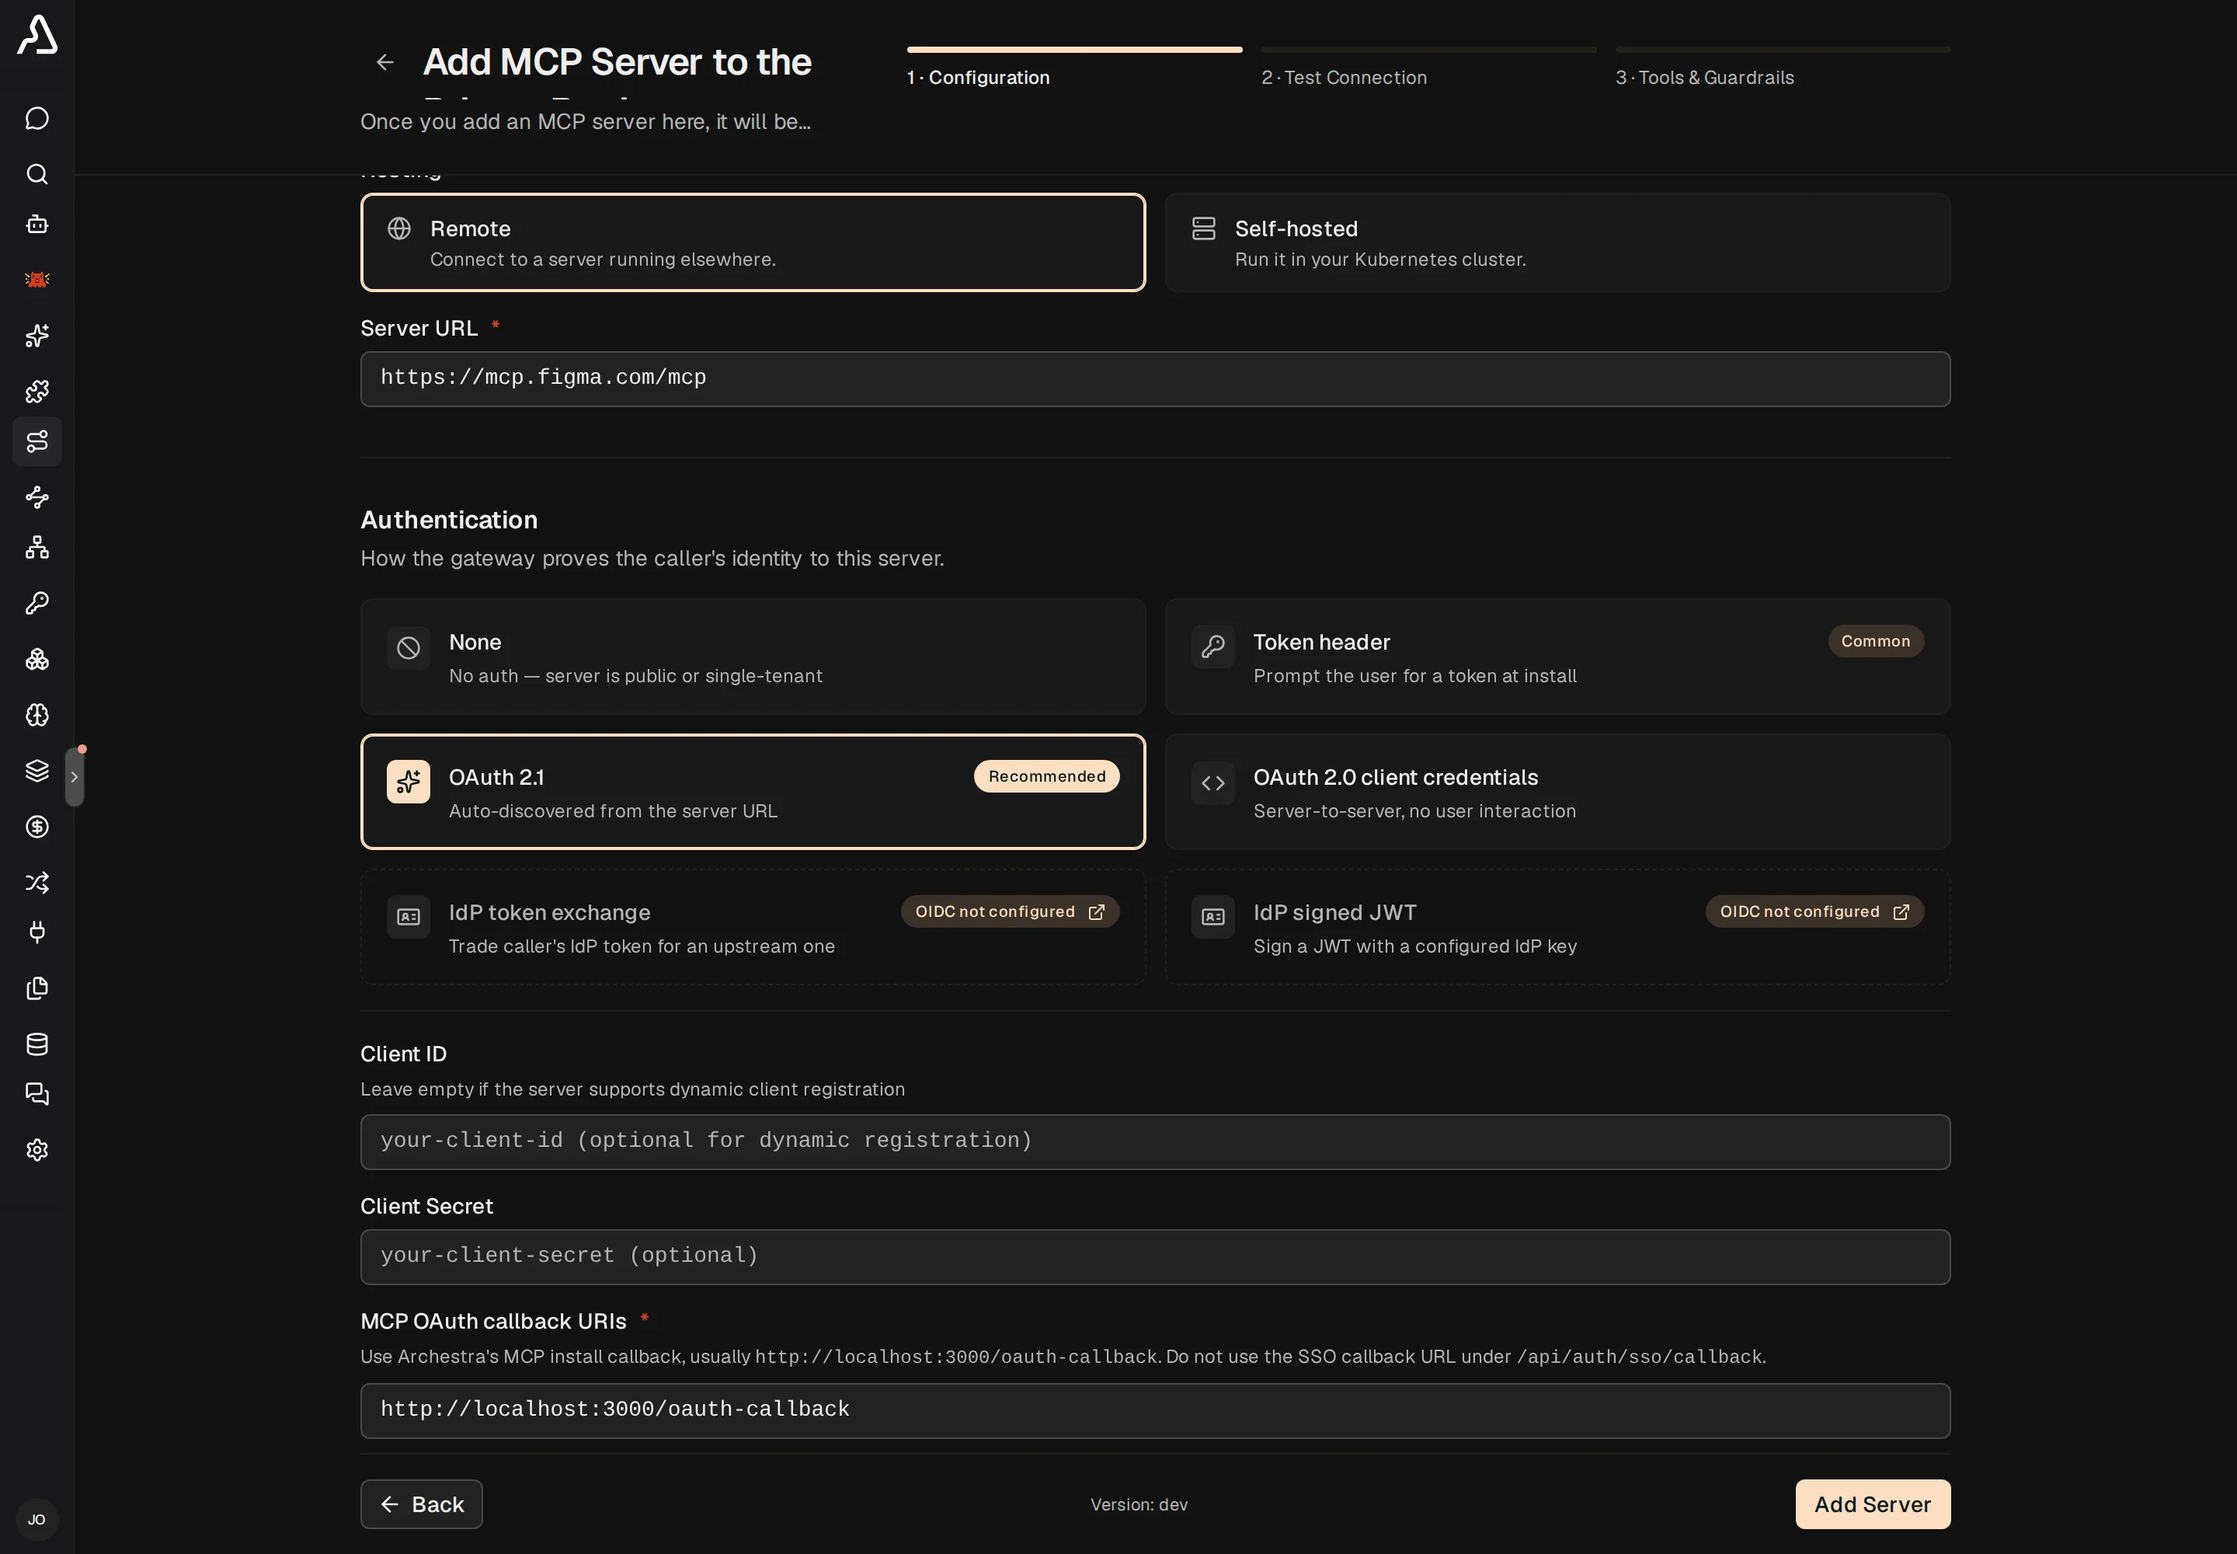
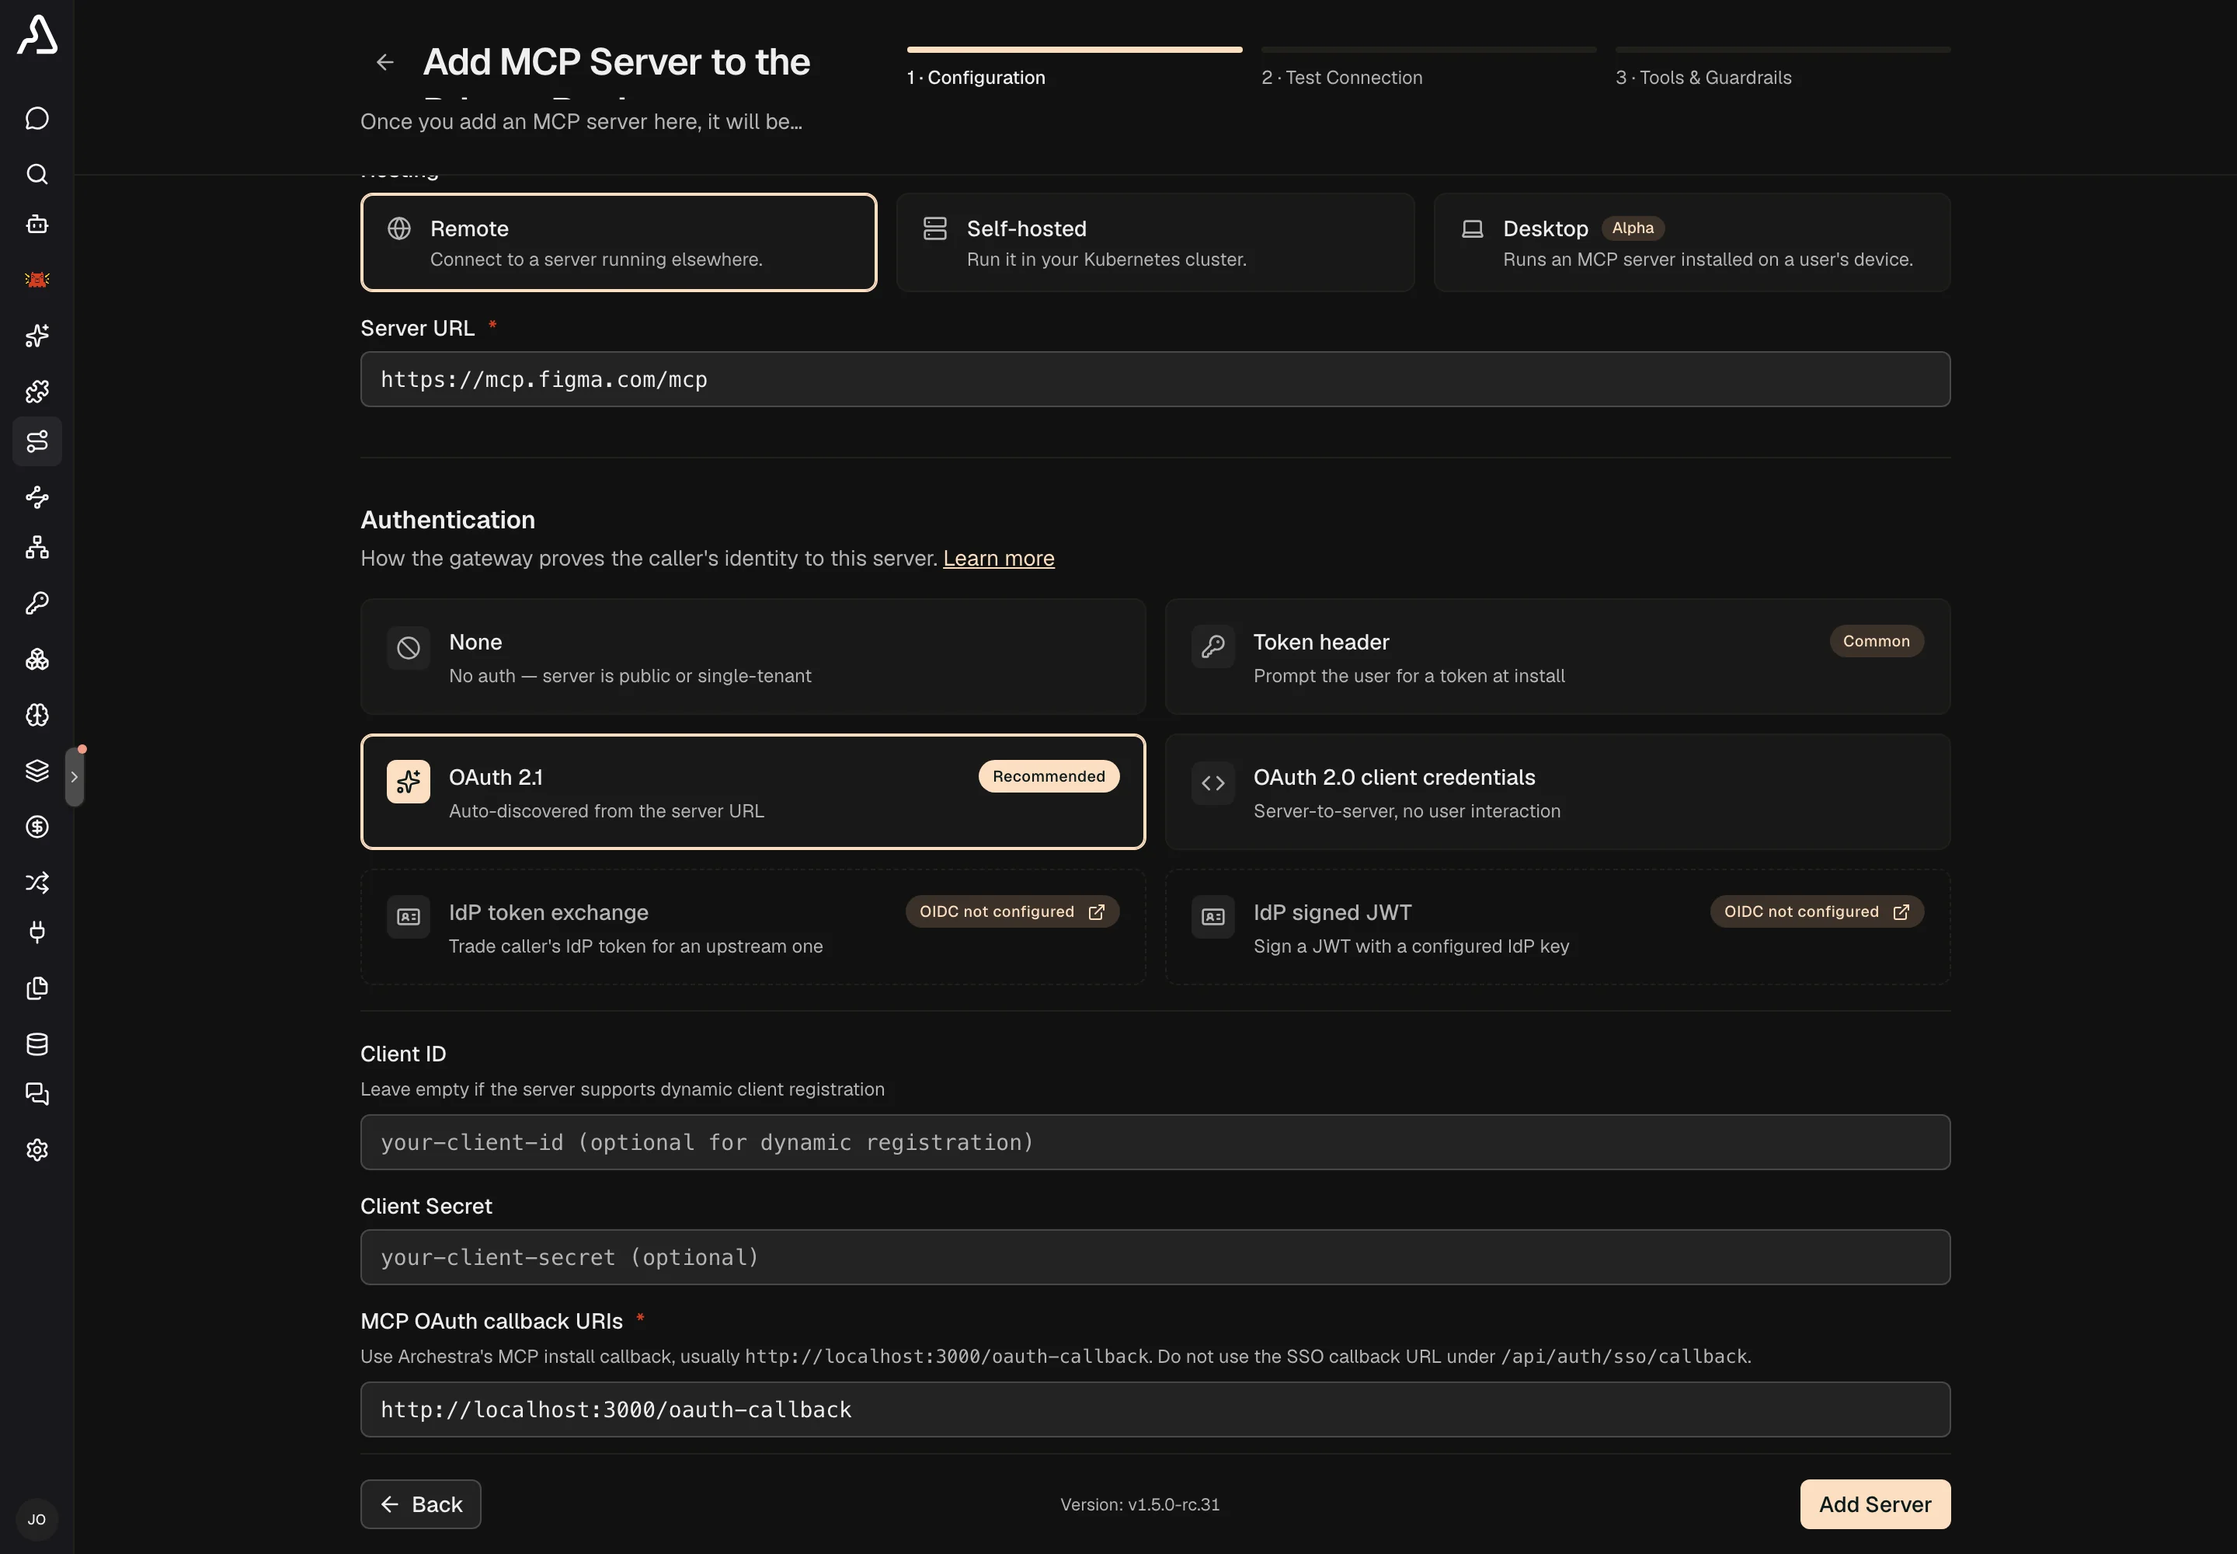
docs(mcp): add Desktop MCP Servers and Archestra CLI pages

diff --git a/platform/tools/docs-screenshots/src/db-seed.ts b/platform/tools/docs-screenshots/src/db-seed.ts
@@ -3,6 +3,7 @@ import {
   AGENT_PLACEMENT,
   CHANNEL_BINDINGS,
   COLLEAGUES,
+  DESKTOP_DEVICE,
   KNOWLEDGE_BASE_AGENTS,
   KNOWLEDGE_BASES,
   KNOWLEDGE_CONNECTORS,
@@ -56,6 +57,7 @@ ON CONFLICT DO NOTHING;`);
   seedKnowledge(state);
   seedYells(state);
   seedLogSession(state);
+  seedDesktopDevice(state);
 }
 
 /** Rebuild only reserved fixture records so session-head triggers and ownership stay current. */
@@ -168,6 +170,17 @@ INSERT INTO member (id, organization_id, user_id, role, created_at) VALUES (${sq
 }
 
 /** Agent reports on Guardrails → Yells, filed by the colleagues. Agents file them through a tool call; no API creates one. */
+/**
+ * The persona's device, linked and online. A device is online while its MCP
+ * bridge polls; no bridge runs here, so the last poll is set far ahead and the
+ * row stays online for every capture.
+ */
+function seedDesktopDevice(state: SeedState): void {
+  runSql(`INSERT INTO desktop_devices (id, organization_id, user_id, name, platform, key_hash, last_polled_at, client_version, created_at)
+VALUES (${sql(DESKTOP_DEVICE.id)}, ${sql(state.organization.id)}, ${sql(state.users.persona)}, ${sql(DESKTOP_DEVICE.name)}, ${sql(DESKTOP_DEVICE.platform)}, encode(sha256(${sql(`docs-device-${DESKTOP_DEVICE.id}`)}::bytea), 'hex'), now() + interval '10 years', ${sql(DESKTOP_DEVICE.version)}, ${FIXTURE_TIME_SQL} - make_interval(days => ${DESKTOP_DEVICE.daysAgo}))
+ON CONFLICT (user_id) DO UPDATE SET name = EXCLUDED.name, platform = EXCLUDED.platform, last_polled_at = EXCLUDED.last_polled_at, client_version = EXCLUDED.client_version, created_at = EXCLUDED.created_at;`);
+}
+
 function seedYells(state: SeedState): void {
   const organizationId = state.organization.id;
   runSql(

diff --git a/platform/tools/docs-screenshots/src/manifest.ts b/platform/tools/docs-screenshots/src/manifest.ts
@@ -66,6 +66,29 @@ export const SHOTS: Shot[] = [
     },
   },
   {
+    asset: "automated_screenshots/mcp-servers-desktop_device",
+    route: () => "/account/devices",
+    viewport: { width: 1440, height: 520 },
+  },
+  {
+    asset: "automated_screenshots/mcp-servers-desktop_add",
+    route: () => "/mcp/registry/new",
+    viewport: { width: 1440, height: 1000 },
+    prepare: async (page) => {
+      await page.getByText("Start from scratch").click();
+      await page.getByPlaceholder("e.g., GitHub MCP Server").fill("MATLAB");
+      await page
+        .getByPlaceholder("Describe what this MCP server does...")
+        .fill("Runs MATLAB code and opens figures on your device");
+      await page.getByText("Desktop", { exact: true }).click();
+      await page
+        .getByPlaceholder("/Users/$USER/bins/mcp")
+        .fill(
+          "$HOME/matlab-mcp/matlab-mcp-server --initial-working-folder=$HOME/matlab-mcp/project",
+        );
+    },
+  },
+  {
     asset: "automated_screenshots/mcp-servers-installing_install",
     route: () => "/mcp/registry",
     prepare: async (page) => {

diff --git a/platform/tools/docs-screenshots/src/dataset.ts b/platform/tools/docs-screenshots/src/dataset.ts
@@ -148,6 +148,18 @@ expect allow
 ] as const;
 
 /** Yells on Guardrails → Yells: agents that could not finish a task because of the policy. */
+/**
+ * The persona's linked device. Only the MCP bridge can link one, when it runs
+ * on a real device, so the row is seeded as SQL.
+ */
+export const DESKTOP_DEVICE = {
+  id: "de51ce00-0000-4000-8000-000000000001",
+  name: "Jordans-MacBook-Pro",
+  platform: "macos",
+  version: "0.1.2",
+  daysAgo: 2,
+};
+
 export const YELLS = [
   {
     id: "5e11a0e1-0000-4000-8000-000000000001",

diff --git a/docs/pages/mcp/servers/desktop.md b/docs/pages/mcp/servers/desktop.md
@@ -1,0 +1,84 @@
+---
+title: Desktop MCP Servers
+description: Let Archestra use MCP servers running on your device, through the MCP bridge
+order: 5
+alpha: true
+lastUpdated: 2026-11-13
+---
+
+<!-- Renaming/deleting this file? Add a redirect in docs/redirects.json. -->
+
+Let Archestra use MCP servers running on your device. A desktop MCP server runs on each person's device, and agents reach it through the [MCP bridge](/docs/reference/archestra-cli).
+
+## Link Your Device
+
+A desktop MCP server runs on a device that is linked to your account. Link your device first, in Personal Settings.
+
+1. Go to **Personal Settings → Device**, and click **Set up the MCP bridge**.
+2. Copy the command, and paste it in a terminal on your device. On Windows, click **Use the Windows command** and paste it in PowerShell.
+3. Back in Archestra, make sure your terminal shows the same code, and click **Approve**.
+
+The **Device** tab then shows your device as **Online**.
+
+![The Device tab of Personal Settings with a linked device that is online](/docs/automated_screenshots/mcp-servers-desktop_device.webp)
+
+- The command installs the MCP bridge, the program that starts MCP servers on your device. It runs in the background, and starts again each time you log in.
+- To stop, update, or remove the MCP bridge, see the [Archestra CLI](/docs/reference/archestra-cli).
+- You have one device. Linking another one replaces it.
+
+## Add a Desktop MCP Server
+
+The command you enter here is the command that runs on your device. You need [`mcpRegistry:create`](/docs/reference/permissions#mcpRegistry:create).
+
+1. Go to **MCP Registry**, click **Add MCP Server**, then **Start from scratch**.
+2. Enter a **Name**, and under **Hosting** pick **Desktop**.
+3. Under **Command**, enter the command that starts the MCP server.
+4. Click **Add Server**.
+
+![The Add MCP Server form with Desktop hosting and a command](/docs/automated_screenshots/mcp-servers-desktop_add.webp)
+
+The program that the command starts must already be installed on the device. Archestra does not install it.
+
+- The same command runs on each person's device. Write `$USER` and `$HOME` for the user name and the home folder of that device.
+- No shell runs the command, so `~` and pipes do not work.
+
+## Connect the Server
+
+Connecting starts the MCP server on your linked device. After **Add Server**, you are on **Test Connection**.
+
+1. Click **Connect**.
+2. To add your own arguments to the command, enter them under **Arguments (one per line)**. Then click **Connect**.
+3. When the dialog says that the server is connected, click **Open chat**.
+
+## Example: MATLAB
+
+Ask an agent for a plot, and MATLAB draws it on your device. This example uses the [MATLAB MCP Server](https://github.com/matlab/matlab-mcp-server) from MathWorks.
+
+1. Add a desktop MCP server named `MATLAB` with this command. Change the paths to where the MATLAB MCP Server is already installed on your device:
+
+   ```text
+   $HOME/matlab-mcp/matlab-mcp-server --initial-working-folder=$HOME/matlab-mcp/project
+   ```
+
+2. Click **Connect**, then **Open chat**.
+3. Send this message:
+
+   ```text
+   In MATLAB, plot sin(x) from 0 to 2π and tell me its maximum value.
+   ```
+
+MATLAB opens the figure on your device, and the agent answers with what MATLAB found.
+
+![A chat that asks MATLAB for a sine plot, next to the MATLAB figure it produced](/docs/desktop-mcp-matlab.webp)
+
+## Fix a Server That Does Not Connect
+
+Find what you see in **MCP Registry** or in the dialog, then fix it on your device.
+
+| You see | Do this |
+| --- | --- |
+| **Device not linked** | Click it, and [link your device](#link-your-device). |
+| **Waiting for your device** | Click it to open **Personal Settings → Device**. If the device is **Offline**, wake it, or run `archestra bridge start` on it. |
+| **The program … was not found on this device.** | Install the program that the command starts, or put it on your `PATH`. The MCP bridge picks it up automatically. |
+
+On any other error, run `archestra bridge status` to find the log file, and read the server's errors there.

diff --git a/docs/pages/reference/archestra-cli.md b/docs/pages/reference/archestra-cli.md
@@ -1,0 +1,67 @@
+---
+title: Archestra CLI
+description: The archestra program on your device, with the commands that start, stop, update, and remove the MCP bridge
+order: 6
+alpha: true
+lastUpdated: 2026-11-13
+---
+
+<!-- Renaming/deleting this file? Add a redirect in docs/redirects.json. -->
+
+`archestra` is the program that links your device to Archestra. It runs the MCP bridge, which starts [desktop MCP servers](/docs/mcp/servers/desktop) on your device for your agents. The setup gives you a command for macOS and Linux, and one for Windows.
+
+## Install
+
+You do not download it by hand: Archestra gives you a command made for your account. See [Link Your Device](/docs/mcp/servers/desktop#link-your-device).
+
+The first start on a device does three things:
+
+- It links the device to your account, after you approve it in Archestra.
+- It puts the `archestra` command on your `PATH`. Open a new terminal to use it.
+- It turns auto-start on, so the MCP bridge starts each time you log in.
+
+## Commands
+
+Every command acts on your own device. Add `--help` to any of them for details.
+
+| Command | What it does |
+| --- | --- |
+| `archestra bridge start` | Starts the MCP bridge in the background. |
+| `archestra bridge stop` | Stops the MCP bridge. With auto-start on, it starts again at the next login. |
+| `archestra bridge status` | Shows if the MCP bridge runs, the state of each MCP server, the version, and where the log file is. |
+| `archestra bridge enable-auto-start` | Starts the MCP bridge at each login. It does not start it now. |
+| `archestra bridge disable-auto-start` | Stops starting the MCP bridge at each login. It does not stop it now. |
+| `archestra update` | Gets the version that your Archestra offers, and starts the MCP bridge again with it. |
+| `archestra uninstall` | Removes the program and the MCP bridge from your device. |
+
+`archestra bridge start` takes these options:
+
+| Option | What it does |
+| --- | --- |
+| `--url <url>` | The address of your Archestra. Needed for the first start only. |
+| `--config <path>` | Another config file than `~/.archestra/mcp-bridge/config.yaml`. |
+| `--foreground` | Runs the MCP bridge in this terminal. Stop it with Ctrl-C. |
+| `--no-open` | Prints the approval link, and does not open the browser. |
+
+## Update
+
+The program follows the Archestra it is linked to. When your Archestra offers another version, **Personal Settings → Device** and `archestra bridge status` say so.
+
+- **macOS and Linux:** run `archestra update`.
+- **Windows:** the MCP bridge updates by itself when no tool call is running. To update at once, run `archestra update`.
+
+## Uninstall
+
+`archestra uninstall` stops the MCP bridge, unlinks the device from your account, deletes the program and its files, and takes `archestra` off your `PATH`. Your MCP servers and other programs stay.
+
+To unlink a device you no longer have, go to **Personal Settings → Device**, and click **Unlink device** next to it.
+
+## Files
+
+Everything is in `~/.archestra`. On Windows, `~` is `%USERPROFILE%`.
+
+| File | What it holds |
+| --- | --- |
+| `~/.archestra/bin/archestra` | The program. |
+| `~/.archestra/mcp-bridge/config.yaml` | The key of your device and the servers you connected. Archestra rewrites it, so do not edit it. |
+| `~/.archestra/mcp-bridge/mcp-bridge.log` | The log of the MCP bridge, with the errors your MCP servers print. |

diff --git a/docs/pages/mcp/servers/index.md b/docs/pages/mcp/servers/index.md
@@ -2,7 +2,7 @@
 title: MCP Servers
 description: Add MCP servers to your organization's registry, install them, and give their tools to agents and gateways
 order: 1
-lastUpdated: 2026-10-05
+lastUpdated: 2026-11-13
 ---
 
 <!-- Renaming/deleting this file? Add a redirect in docs/redirects.json. -->
@@ -47,5 +47,6 @@ A teammate's sign-in expired but yours works? You are not asked to sign in again
 ## What to Know
 
 - Remote or self-hosted? Pick remote when someone already runs the server. Pick self-hosted when Archestra should run it, hold its secrets, and show its logs.
+- Does the MCP server run on a person's own device? Add it as a [desktop MCP server](/docs/mcp/servers/desktop).
 - New tools on a server? Open it, go to **Inspector**, and click **Refresh Tools**. To refresh on a schedule, set [`ARCHESTRA_MCP_SERVER_TOOLS_REFRESH_INTERVAL_MINUTES`](/docs/admin/deployment/configuration#ARCHESTRA_MCP_SERVER_TOOLS_REFRESH_INTERVAL_MINUTES).
 - **Renaming a server** renames its tools too, such as `reports__export`. Assignments and policies stay. Clients must reload their tool list.

diff --git a/docs/pages/mcp/servers/adding.md b/docs/pages/mcp/servers/adding.md
@@ -2,7 +2,7 @@
 title: Add a Server
 description: Configure a remote or self-hosted MCP server and test its connection
 order: 1
-lastUpdated: 2026-10-05
+lastUpdated: 2026-11-13
 ---
 
 <!-- Renaming/deleting this file? Add a redirect in docs/redirects.json. -->
@@ -12,6 +12,8 @@ Add any MCP server: paste its URL, or give Archestra a package or image to run. 
 You set it up once: where it runs, how it signs in, and who can find it. Everyone else clicks **Install** and brings their own account.
 
 You need [`mcpRegistry:create`](/docs/reference/permissions#mcpRegistry:create).
+
+For an MCP server that runs on each person's own device, see [Desktop MCP Servers](/docs/mcp/servers/desktop).
 
 ## Add a Remote Server
 
